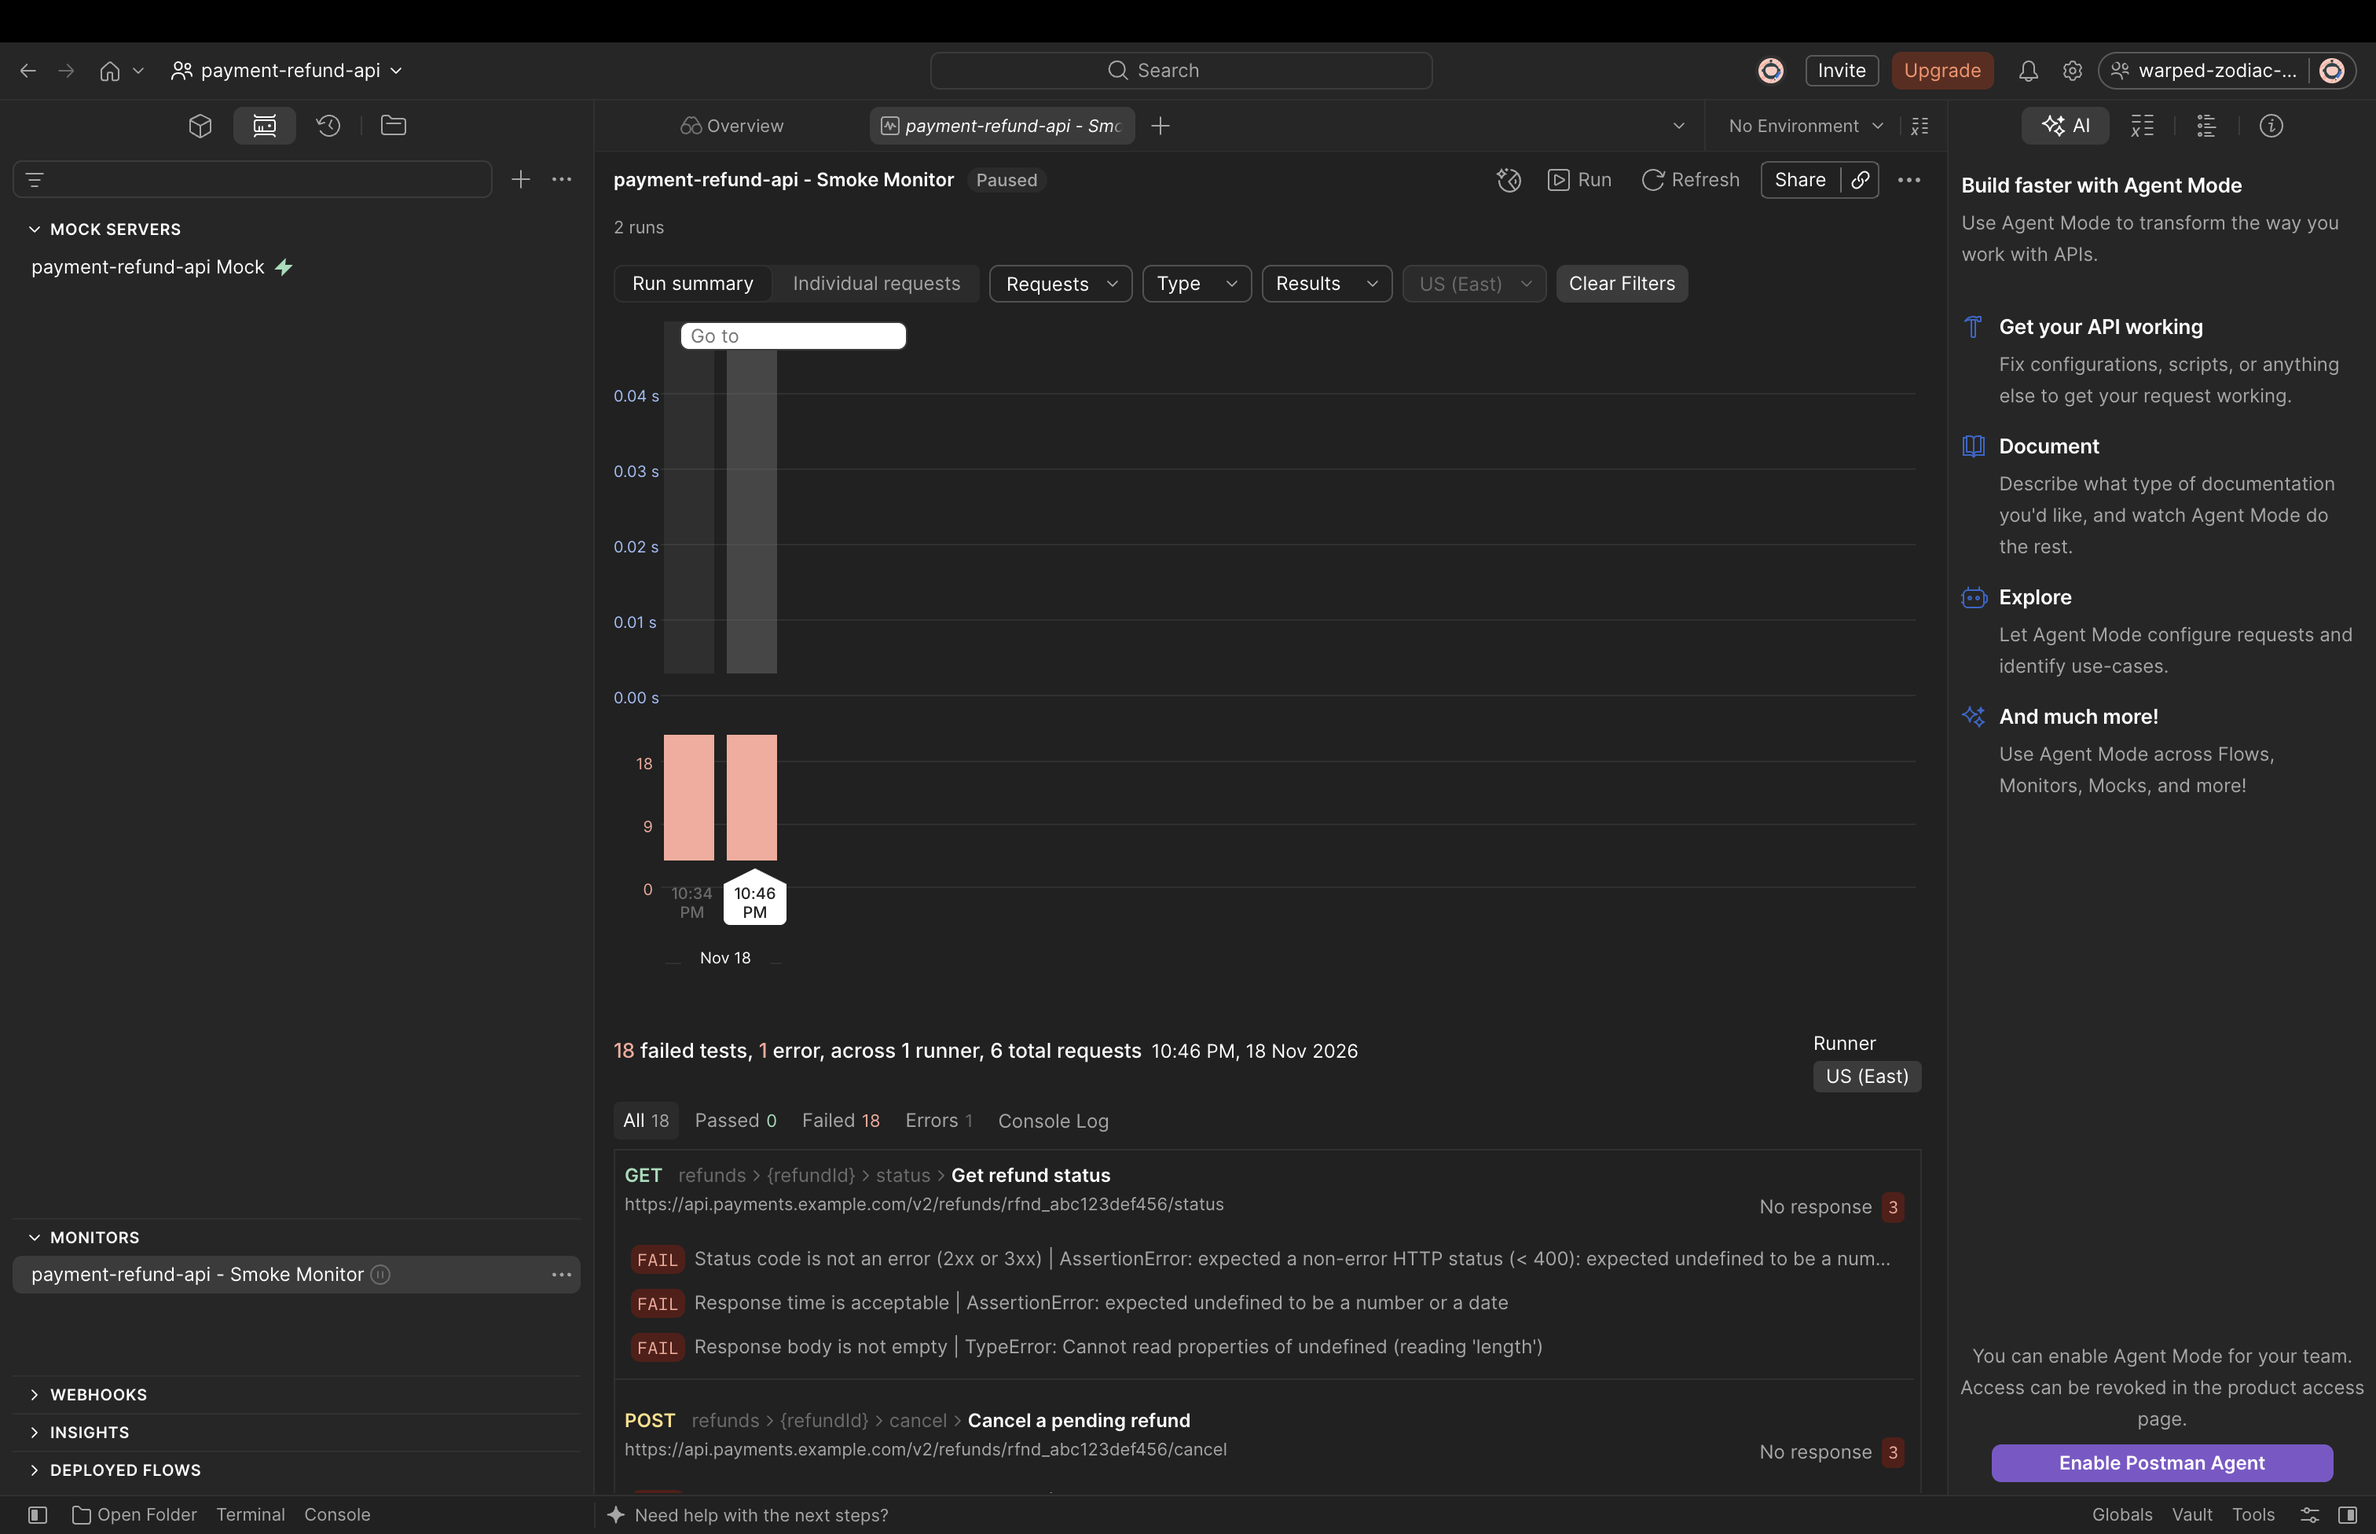
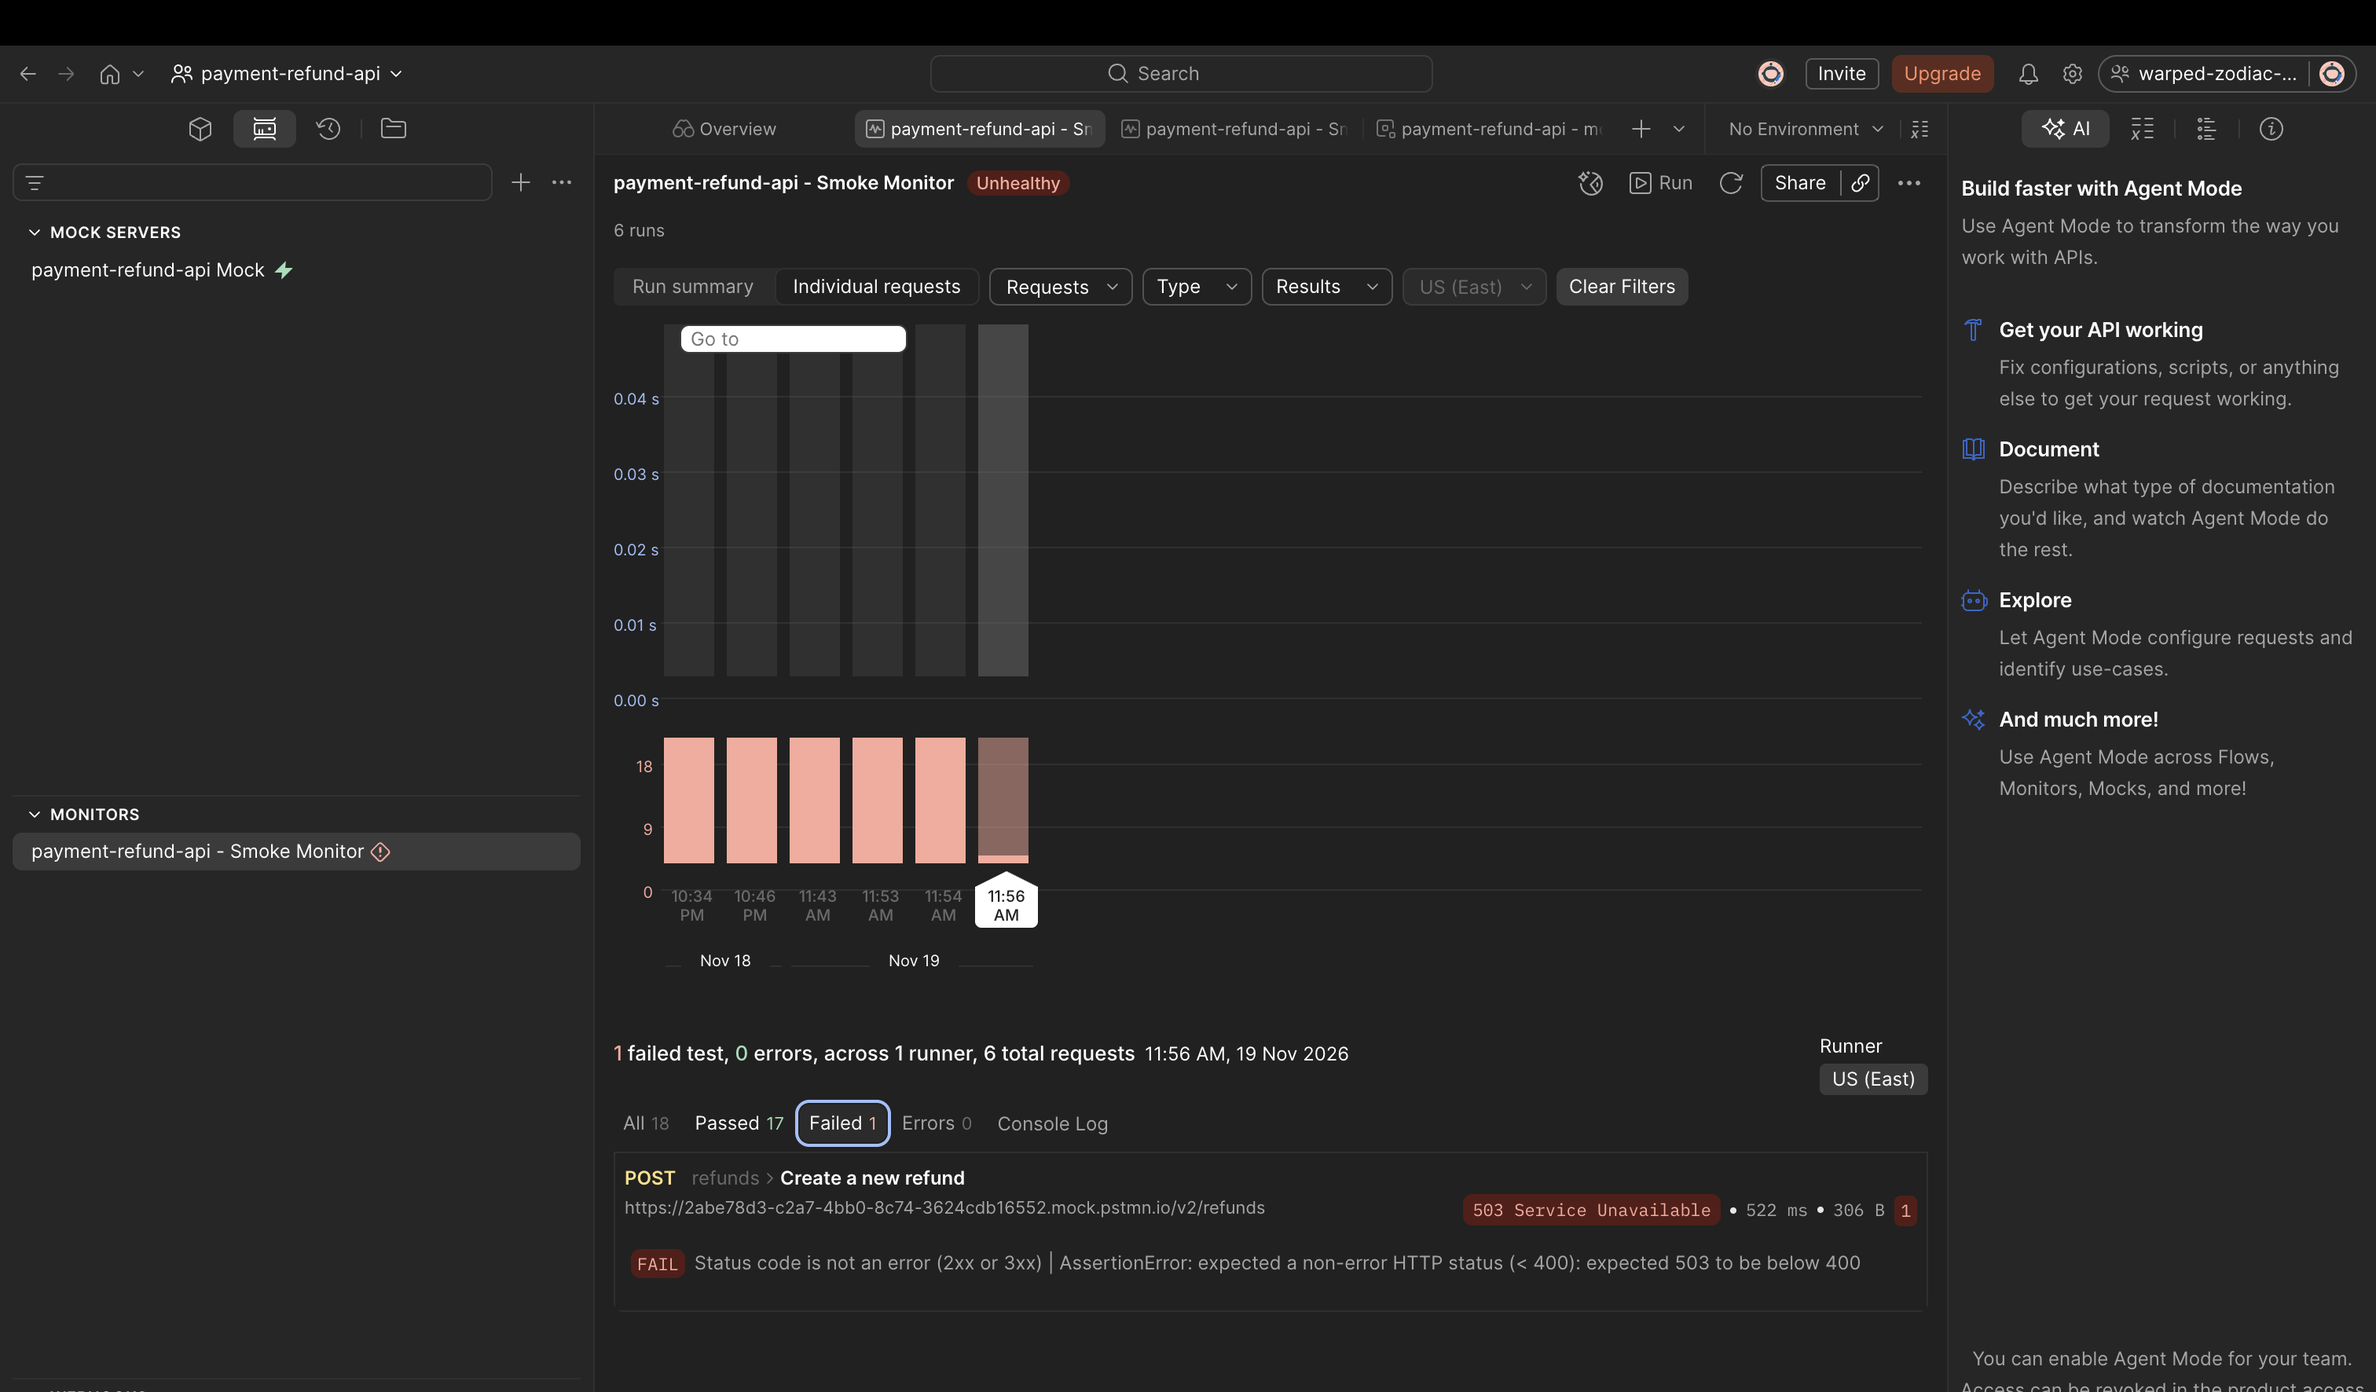
Point the smoke monitor at the mock and document the result
- Monitor re-pointed to a payment-refund-api - mock environment: 18/18 failing
  against the unreachable prod host becomes 17/18 (same POST /refunds 503 as CI)
- Issue: the environment's baseUrl was a local value; monitors only see shared values
- Updated 07-monitor screenshot and the spec-fix commit reference

diff --git a/README.md b/README.md
@@ -26,7 +26,7 @@ From `specs/payment-refund-api-openapi.yaml`, the [Onboard Service](.github/work
 - **Three collections:** baseline (`payment-refund-api`), `[Smoke]` and `[Contract]`
 - **Four environments** (dev, qa, uat, prod), each with the correct `baseUrl` from the spec's `servers`
 - **A mock server** that serves the spec's examples (base path includes `/v2`)
-- **A smoke monitor**, created paused and triggered once per run
+- **A smoke monitor**, created paused, triggered once per run, pointed at prod (re-pointed to the mock for the demo)
 - **A commit back to this repo** with collection exports (`postman/`), the state file
   (`.postman/resources.yaml`) and a CI workflow (`.github/workflows/ci.yml`)
 
@@ -119,7 +119,7 @@ Contract collection results from this repo's runs (Postman → `[Contract]` → 
 |---|---|---|---|---|
 | Build 1, Build 2 | Real URLs (`*.example.com`, which don't resolve) | 208 | 195 | 13 |
 | Build 4 | Mock | 208 | 201 | 7 |
-| After the spec fixes (`ca73720`) | Mock | 207 | 202 | **5**, all "no credentials" |
+| After the spec fixes (`9d98ad9`) | Mock | 207 | 202 | **5**, all "no credentials" |
 
 13 → 7 → 5: the mock removed the "no response" failures, the spec fixes removed the two
 real defects, and what's left is the one thing only the customer can provide, a CI identity.
@@ -136,7 +136,7 @@ whether requests got responses, not just the totals.
 - Response status, schema and headers are checked against the spec.
 - Security requirements are enforced. Every request is checked for credentials matching
   the spec's `security`.
-- **They found two real spec defects on day one**, both fixed in commit `ca73720`
+- **They found two real spec defects on day one**, both fixed in commit `9d98ad9`
   ("Proposed spec fixes…", which would be a PR to the payments team) and confirmed by the
   next contract run:
   1. `POST /refunds` example `full_refund` sends `amount: null`, but `amount` is a
@@ -226,7 +226,8 @@ gh workflow run onboard-service.yml \
 | GitHub token couldn't write | `200` on reads, `403` on every write | Fine-grained token had **zero** repository permissions; reads passed only because the repo is public | Added Actions, Contents, Variables, Workflows = write; verified with a `422` probe (authorized, invalid body) |
 | Generated CI always red | `ENOTFOUND api.payments.example.com` after every sync commit | `ci.yml` tests the prod environment, whose host doesn't exist | `CI_TARGET=mock` switch; took ownership of `ci.yml` so reruns don't overwrite it |
 | Create-refund failing on the mock | `POST /refunds` → `503` | That endpoint has 9 response examples, and the mock returned the 503 one | Made mock-mode tests advisory. The real fix is real environments, plus fixing the request example |
-| Two spec defects | Contract: `amount` schema failure; `/health` asks for credentials | `amount: null` in the example; `/health` missing `security: []` | Fixed the spec (`ca73720`) and re-onboarded: 7 → 5 failures |
+| Two spec defects | Contract: `amount` schema failure; `/health` asks for credentials | `amount: null` in the example; `/health` missing `security: []` | Fixed the spec (`9d98ad9`) and re-onboarded: 7 → 5 failures |
+| Monitor sent requests to `http://refunds/...` | 18 failures, 6 connection errors | The new environment's `baseUrl` was saved as a **local** value. Monitors run in Postman's cloud and only see **shared** values | Shared the value (☁ Share), and the monitor then reached the mock: 17 of 18 |
 | Preflight log noise | `curl: (23) Failure writing output` | `head -1` closed the pipe early | Download to a file, then check it |
 
 | Token as first created (0 permissions) | After the fix |
@@ -256,18 +257,23 @@ gh workflow run onboard-service.yml \
   That's why mock-mode CI is advisory.
 - **Flaky dependency.** One mock request took 60 s (`/health`), which pushed the
   average response time to 10 s. Monitors should alert on repeated failures, not on one.
-- **The monitor is paused and fails 18 of 18.** No `monitor-cron` was set, so the action
-  created it disabled and triggers it once per onboarding run. It runs from Postman's
-  cloud (US East) against the **prod** environment, so every request gets "No response".
-  The `CI_TARGET=mock` switch only affects GitHub CI, not the monitor. Scheduling it now
-  would alert on every run, so it should only be enabled once a reachable URL and
-  credentials exist. Schedule and alert routing are the customer's decision.
+- **The monitor needed a hand-edit to be useful.** The action creates it paused (no
+  `monitor-cron`), triggers it once per onboarding run, and points it at the **prod**
+  environment. Against the non-existent prod host it failed 18 of 18 with "No response".
+  The `CI_TARGET=mock` switch only affects GitHub CI, not the monitor. For the demo I
+  pointed it at a `payment-refund-api - mock` environment, and it now shows **17 of 18**,
+  the same `POST /refunds` 503 as CI. Two caveats:
+  - It's a hand-edit outside the pipeline, so a later onboarding run may reset the
+    monitor to prod. That's config drift, and the real fix is a reachable environment.
+  - It stays **unscheduled**. Scheduling it against a mock would report "healthy"
+    without checking the real API. Schedule and alert routing are the customer's call,
+    once a reachable URL and credentials exist.
 - **Where to find things in Postman:** the mock server and monitor are under the second
   sidebar view (*Mock servers* / *Monitors*), not the collections view.
 - **Advisory CI is a temporary state.** If `CI_TARGET=mock` is never removed, the
   pipeline is permanently "green but not checking anything real".
 
-![Smoke monitor: paused, 2 runs, 18 of 18 failing with no response from the example.com hosts](docs/screenshots/07-monitor.png)
+![Smoke monitor pointed at the mock: 17 of 18, the only failure is the mock's 503 on POST /refunds](docs/screenshots/07-monitor.png)
 
 ## Repo layout
 
@@ -297,7 +303,7 @@ All taken from the real runs on 18–19 Nov 2026.
 | [04-environment-prod](docs/screenshots/04-environment-prod.png) | Generated `prod` environment (`baseUrl`, `RESPONSE_TIME_THRESHOLD`) |
 | [05-auth-gap-oauth](docs/screenshots/05-auth-gap-oauth.png) | Auth copied from the spec: OAuth authorization code, no client credentials |
 | [06-mock-response](docs/screenshots/06-mock-response.png) | `GET /v2/refunds` on the mock, with no backend running |
-| [07-monitor](docs/screenshots/07-monitor.png) | Smoke monitor, paused, 18 of 18 failing against the prod URL |
+| [07-monitor](docs/screenshots/07-monitor.png) | Smoke monitor: 18/18 failing against prod, then 17/18 after pointing it at the mock |
 | [08-onboard-run-summary](docs/screenshots/08-onboard-run-summary.png) | First onboarding run: workspace, spec, mock, monitor, commit |
 | [09-ci-mock-advisory](docs/screenshots/09-ci-mock-advisory.png) | CI against the mock: green, failures visible as annotations |
 | [10-contract-run-history](docs/screenshots/10-contract-run-history.png) | Contract runs: 13 failures on real URLs, 7 on the mock |
